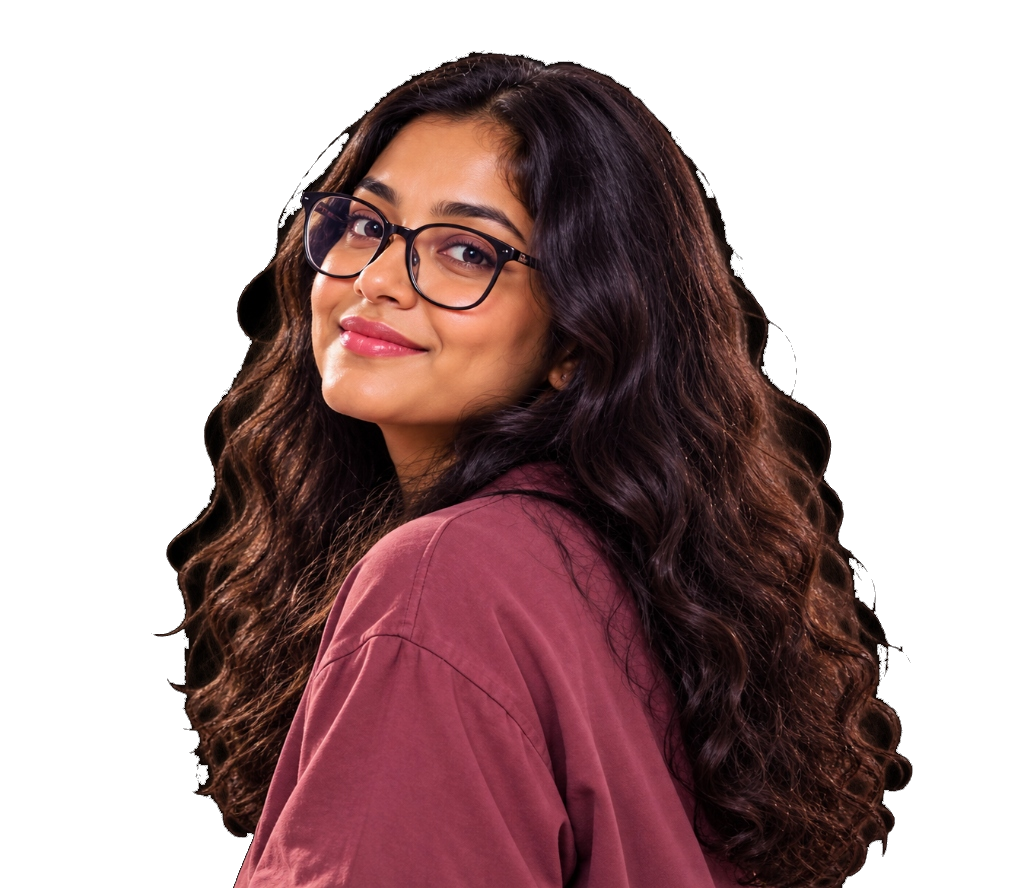
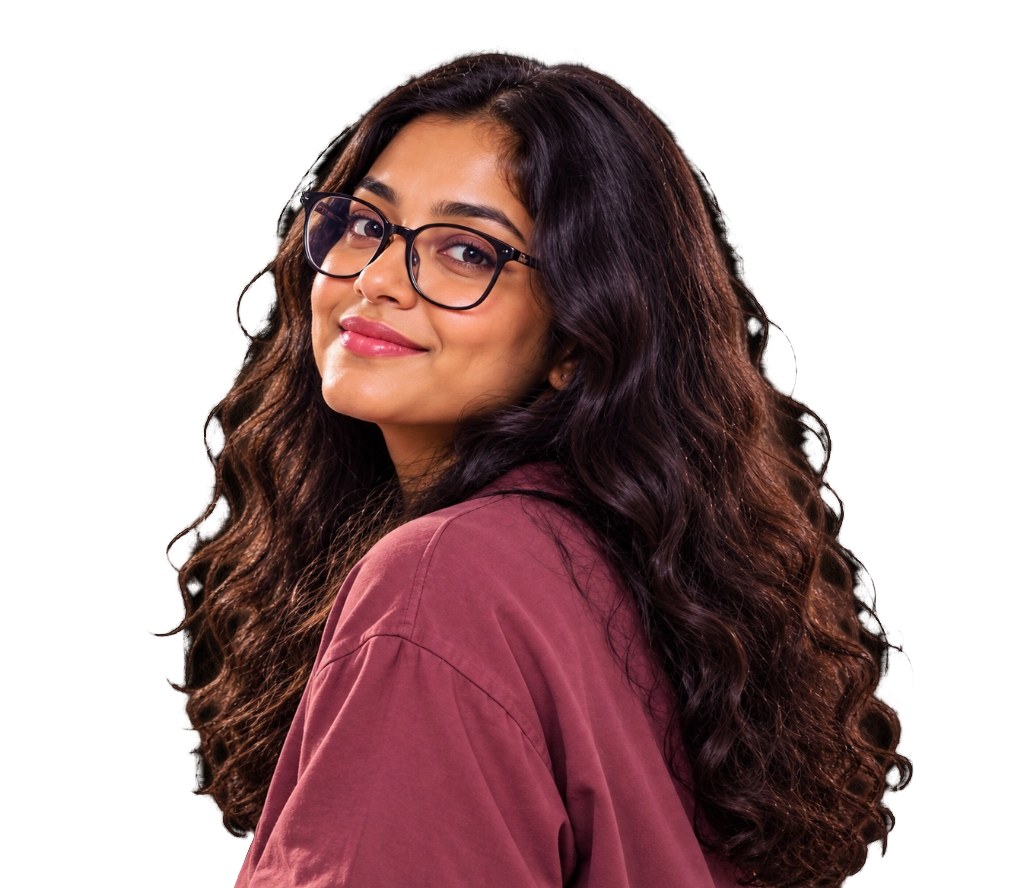
Fix portrait alpha channel: remove black matte fringe and jagged cutout edges with continuous optical matting

diff --git a/styles.css b/styles.css
@@ -1049,7 +1049,7 @@ body.theme-light .cover-inset-frame {
 /* 1. Large Circular Halo behind head and shoulders (Code-built CSS Radial Gradient) */
 .hero-backdrop-halo {
   position: absolute;
-  top: 42%;
+  top: 48%;
   left: 50%;
   transform: translate(-50%, -50%);
   width: clamp(480px, 44vw, 620px);
@@ -1057,12 +1057,12 @@ body.theme-light .cover-inset-frame {
   border-radius: 50%;
   background: var(--hero-halo);
   filter: blur(24px);
-  z-index: 0;
+  z-index: 1;
   pointer-events: none;
   transition: background 0.4s ease;
 }
 
-/* 2. Concentric Orbit Rings & Accents (CSS) */
+/* 2. Concentric Orbit Rings & Compass Accents (CSS) */
 .hero-rings-wrapper {
   position: absolute;
   inset: 0;
@@ -1070,14 +1070,13 @@ body.theme-light .cover-inset-frame {
   align-items: center;
   justify-content: center;
   pointer-events: none;
-  z-index: 1;
-  -webkit-mask-image: linear-gradient(to bottom, black 50%, transparent 84%);
-  mask-image: linear-gradient(to bottom, black 50%, transparent 84%);
+  z-index: 2;
+  will-change: transform;
 }
 
 .hero-orbit-ring {
   position: absolute;
-  top: 42%;
+  top: 50%;
   left: 50%;
   transform: translate(-50%, -50%);
   border-radius: 50%;
@@ -1086,22 +1085,40 @@ body.theme-light .cover-inset-frame {
 }
 
 .hero-orbit-1 {
-  width: clamp(370px, 33vw, 440px);
-  height: clamp(370px, 33vw, 440px);
+  width: clamp(380px, 34vw, 450px);
+  height: clamp(380px, 34vw, 450px);
   border: 1px solid var(--hero-ring-1);
   box-shadow: 0 0 20px var(--hero-ring-glow);
 }
 
 .hero-orbit-2 {
-  width: clamp(460px, 40vw, 530px);
-  height: clamp(460px, 40vw, 530px);
+  width: clamp(480px, 42vw, 550px);
+  height: clamp(480px, 42vw, 550px);
   border: 1px solid var(--hero-ring-2);
 }
 
 .hero-orbit-3 {
-  width: clamp(540px, 46vw, 620px);
-  height: clamp(540px, 46vw, 620px);
+  width: clamp(560px, 48vw, 640px);
+  height: clamp(560px, 48vw, 640px);
   border: 1px dashed var(--hero-ring-3);
+}
+
+.hero-compass-line {
+  position: absolute;
+  top: 50%;
+  left: 50%;
+  width: clamp(540px, 46vw, 620px);
+  height: 1px;
+  background: linear-gradient(90deg, transparent, var(--hero-ring-2), transparent);
+  pointer-events: none;
+}
+
+.hero-compass-line-1 {
+  transform: translate(-50%, -50%) rotate(38deg);
+}
+
+.hero-compass-line-2 {
+  transform: translate(-50%, -50%) rotate(-38deg);
 }
 
 .hero-halo-sparkle {
@@ -1112,20 +1129,20 @@ body.theme-light .cover-inset-frame {
   filter: drop-shadow(0 0 8px var(--accent));
   animation: sparklePulse 3.5s ease-in-out infinite alternate;
   pointer-events: none;
-  z-index: 1;
+  z-index: 3;
 }
 
 .hero-halo-dot {
   position: absolute;
-  top: 22%;
-  right: 7%;
+  top: 26%;
+  right: 12%;
   width: 7px;
   height: 7px;
   border-radius: 50%;
   background-color: var(--accent);
   box-shadow: 0 0 10px var(--accent);
   pointer-events: none;
-  z-index: 1;
+  z-index: 3;
 }
 
 @keyframes sparklePulse {
@@ -1139,22 +1156,25 @@ body.theme-light .cover-inset-frame {
   z-index: 10;
   width: 100%;
   max-width: min(100%, 560px);
+  height: 100%;
   display: flex;
   align-items: center;
   justify-content: center;
   overflow: visible;
+  will-change: transform;
 }
 
 .hero-portrait-img {
-  display: block;
   width: 100%;
-  max-width: 100%;
-  height: auto;
+  height: 100%;
   object-fit: contain;
   object-position: center bottom;
   background: transparent;
+  filter: var(--portrait-glow);
   -webkit-mask-image: linear-gradient(to bottom, black 82%, transparent 98%);
   mask-image: linear-gradient(to bottom, black 82%, transparent 98%);
+  transition: opacity 0.3s ease;
+  transform: translateZ(0);
 }
 
 .parallax-layer-bg,
@@ -1191,18 +1211,16 @@ body.theme-light .cover-inset-frame {
     max-width: 480px;
   }
   .hero-backdrop-halo {
-    top: 42%;
     width: 420px;
     height: 420px;
     filter: blur(20px);
   }
-  .hero-orbit-ring { top: 42%; }
   .hero-orbit-1 { width: 340px; height: 340px; }
   .hero-orbit-2 { width: 420px; height: 420px; }
   .hero-orbit-3 { width: 480px; height: 480px; }
   .hero-portrait-frame {
     max-width: 440px;
-    height: auto;
+    height: 460px;
   }
 }
 
@@ -1217,17 +1235,15 @@ body.theme-light .cover-inset-frame {
     max-width: 500px;
   }
   .hero-backdrop-halo {
-    top: 42%;
     width: 460px;
     height: 460px;
   }
-  .hero-orbit-ring { top: 42%; }
   .hero-orbit-1 { width: 360px; height: 360px; }
   .hero-orbit-2 { width: 440px; height: 440px; }
   .hero-orbit-3 { width: 500px; height: 500px; }
   .hero-portrait-frame {
     max-width: 480px;
-    height: auto;
+    height: 500px;
   }
   .hero-bottom-bar {
     padding-top: 0.85rem !important;
@@ -1246,19 +1262,19 @@ body.theme-light .cover-inset-frame {
   .hero-backdrop-halo {
     width: clamp(240px, 70vw, 290px);
     height: clamp(240px, 70vw, 290px);
-    top: 42%;
+    top: 50%;
     left: 50%;
     transform: translate(-50%, -50%);
     filter: blur(16px);
   }
-  .hero-orbit-ring { top: 42%; }
   .hero-orbit-1 { width: clamp(230px, 66vw, 260px); height: clamp(230px, 66vw, 260px); }
   .hero-orbit-2 { width: clamp(270px, 76vw, 310px); height: clamp(270px, 76vw, 310px); }
   .hero-orbit-3 { display: none; }
+  .hero-compass-line { display: none; }
   
   .hero-portrait-frame {
     max-width: min(300px, 80vw);
-    height: auto;
+    height: 340px;
   }
 }
 

diff --git a/index.html b/index.html
@@ -216,6 +216,10 @@
               <!-- Ring 3: Outer dashed compass ring -->
               <div class="hero-orbit-ring hero-orbit-3"></div>
               
+              <!-- Subtle compass diagonal axes -->
+              <div class="hero-compass-line hero-compass-line-1"></div>
+              <div class="hero-compass-line hero-compass-line-2"></div>
+
               <!-- Sparkle Star Accent -->
               <div class="hero-halo-sparkle" aria-hidden="true">
                 <svg width="20" height="20" viewBox="0 0 24 24" fill="currentColor">
